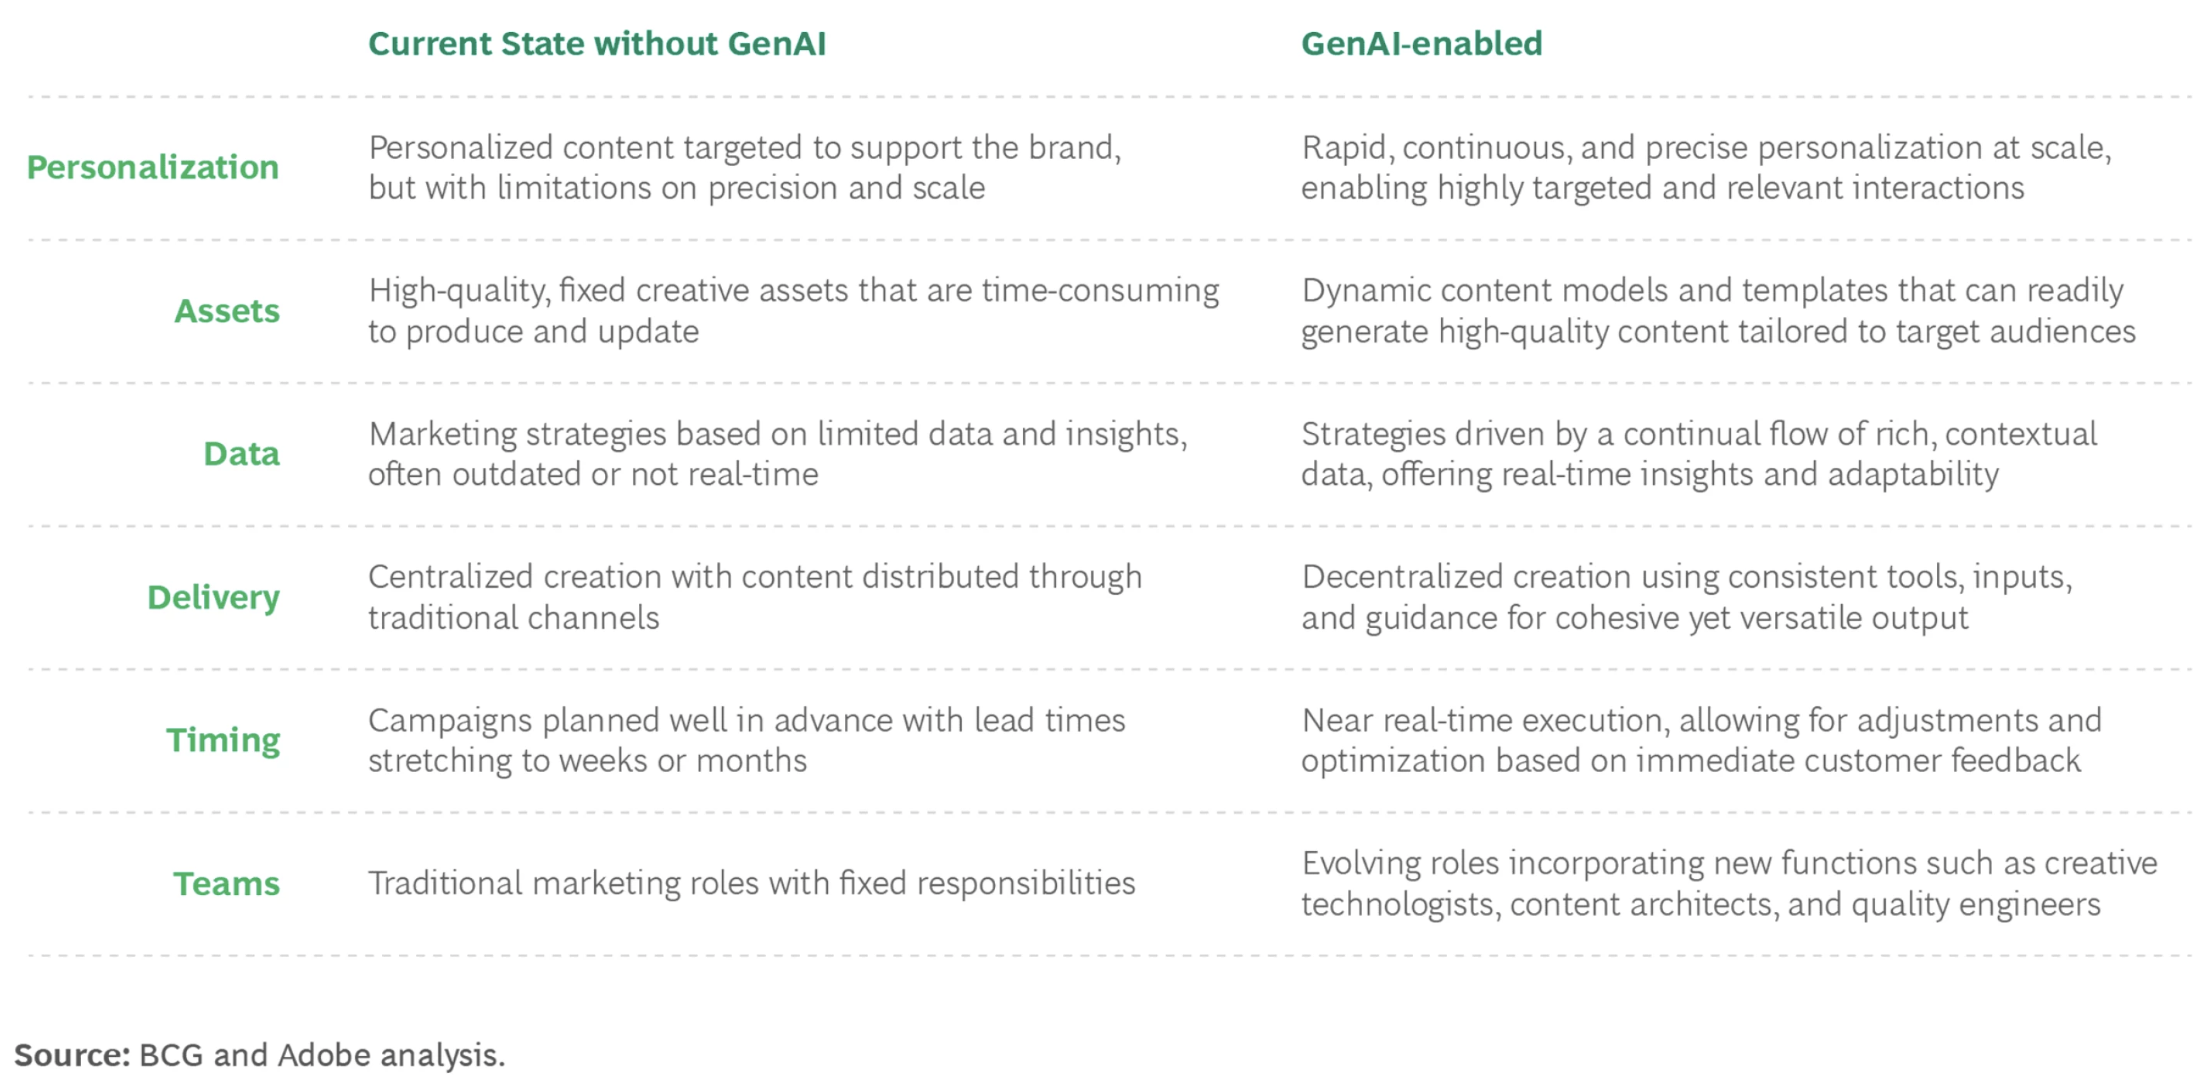
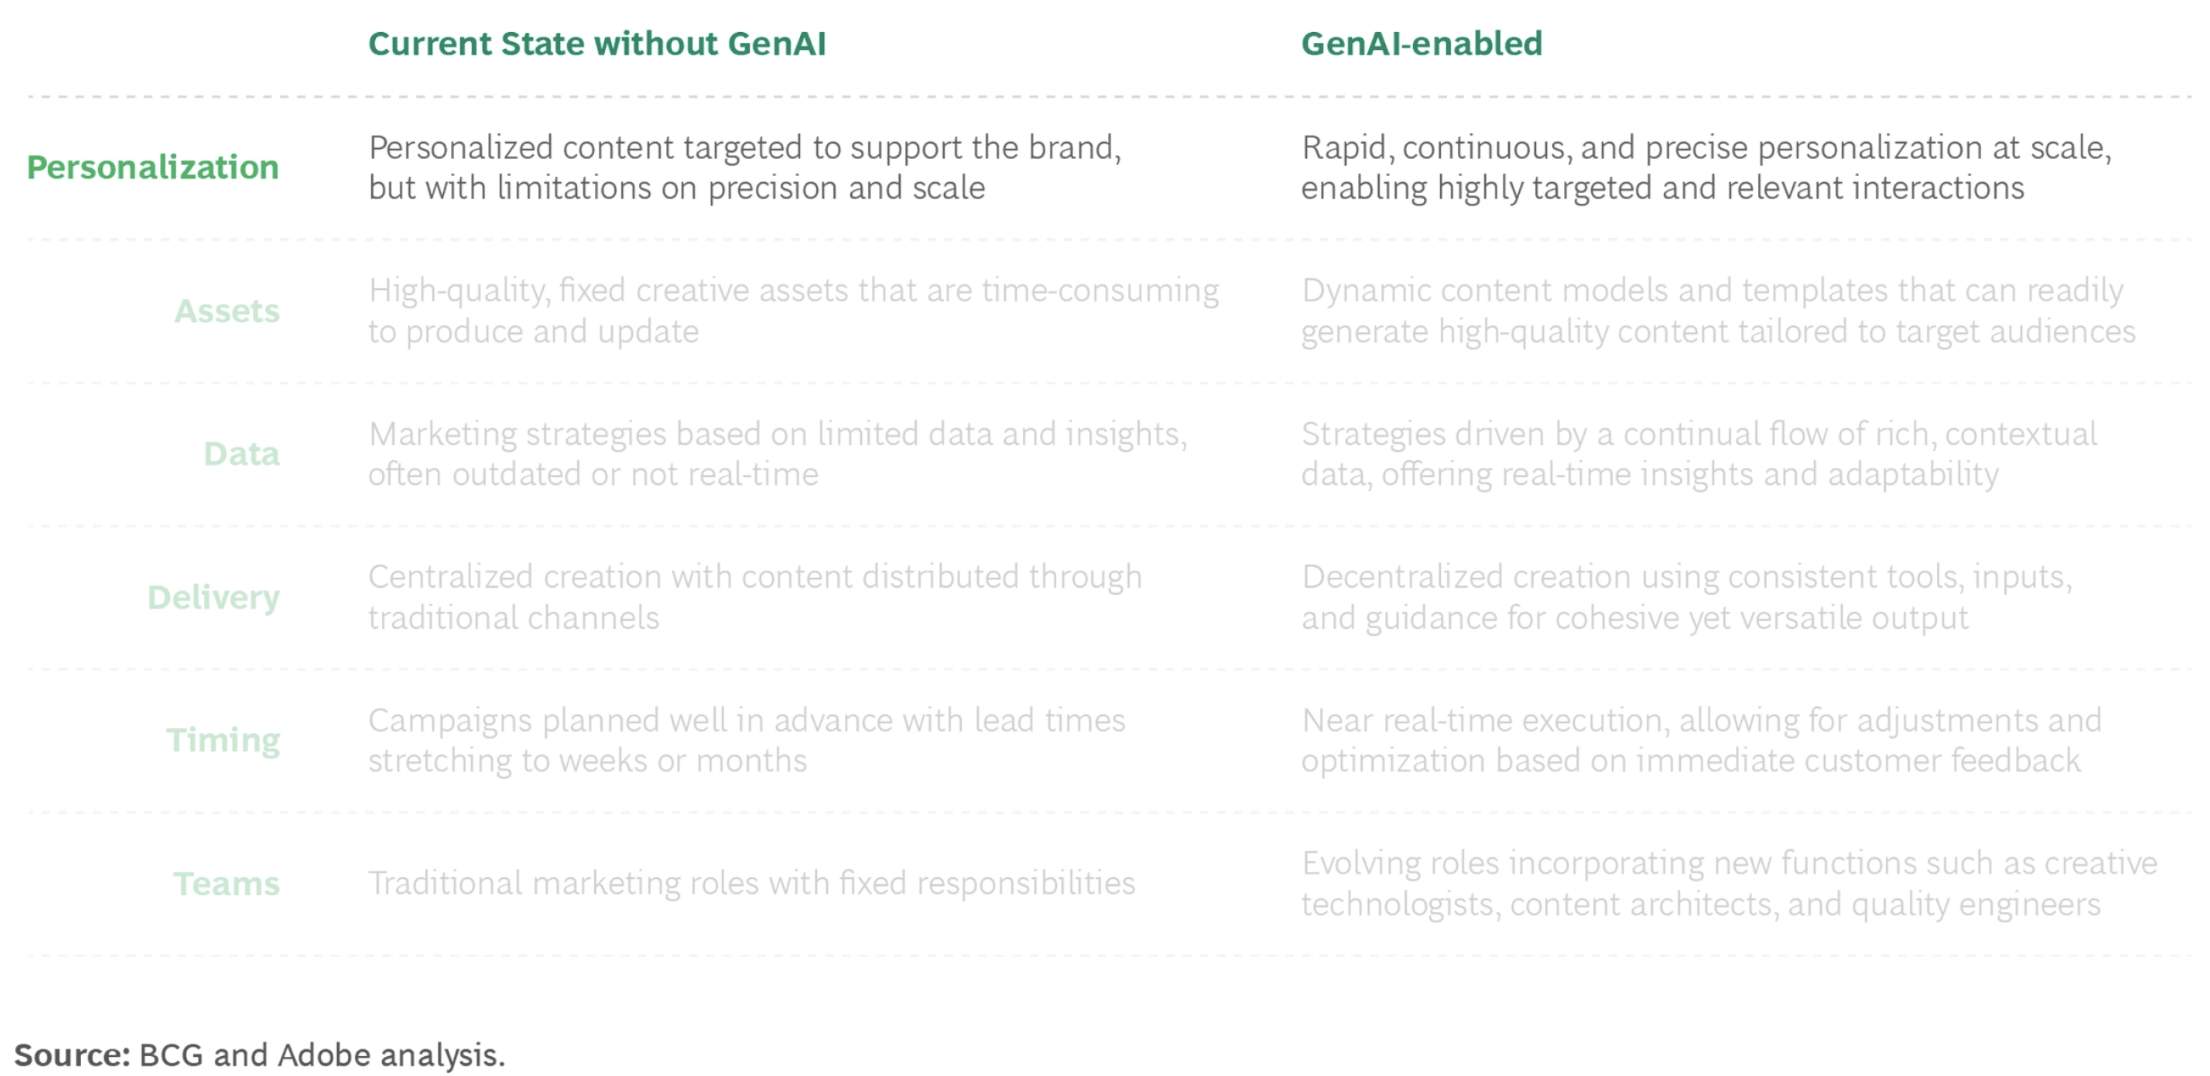
v3.2

diff --git a/_site/revealjs/slides/2025/adbe/adbe.html b/_site/revealjs/slides/2025/adbe/adbe.html
@@ -452,6 +452,11 @@ Joschka Schwarz
 <p><img data-src="assets/img/07_use_cases_2.svg" class="absolute" style="top: 15%; left: 10%; width: 80%; "></p>
 </div>
 </section>
+<section id="genai-unlocks-creativity-throughout-the-entire-marketing-organization" class="slide level2">
+<h2>GenAI unlocks Creativity throughout the entire Marketing Organization</h2>
+<div class="no-height">&nbsp;</div>
+
+<img data-src="assets/img/_BCG.png" class="quarto-figure quarto-figure-center r-stretch" style="filter: drop-shadow(5px 5px 5px #222); -webkit-filter: drop-shadow(5px 5px 5px #222);;width:95.0%"></section>
 <section id="how-genai-is-shaping-the-future-of-creativity-in-marketing" class="slide level2">
 <h2>How GenAI Is Shaping the Future of Creativity in Marketing</h2>
 <div class="no-height">&nbsp;</div>
@@ -777,8 +782,7 @@ By working alongside AI, content creators can push the boundaries of their creat
 <section id="the-power-of-generative-ai-1" class="slide level2">
 <h2>The power of generative AI</h2>
 
-
-<img data-src="assets/img/_BCG.png" class="quarto-figure quarto-figure-center r-stretch" style="filter: drop-shadow(5px 5px 5px #222); -webkit-filter: drop-shadow(5px 5px 5px #222);"><div class="quarto-auto-generated-content">
+<div class="quarto-auto-generated-content">
 <div class="footer footer-default">
 <p>Joschka Schwarz - Explore new ways to create</p>
 </div>

diff --git a/_site/revealjs/slides/2023/beyond/evomap.html b/_site/revealjs/slides/2023/beyond/evomap.html
@@ -1263,7 +1263,7 @@ Thank you for your attention!
       }
     });
     </script>
-    <script>var lightboxQuarto = GLightbox({"selector":".lightbox","loop":false,"openEffect":"zoom","closeEffect":"zoom","descPosition":"bottom"});
+    <script>var lightboxQuarto = GLightbox({"closeEffect":"zoom","loop":false,"descPosition":"bottom","selector":".lightbox","openEffect":"zoom"});
     window.onload = () => {
       lightboxQuarto.on('slide_before_load', (data) => {
         const { slideIndex, slideNode, slideConfig, player, trigger } = data;
